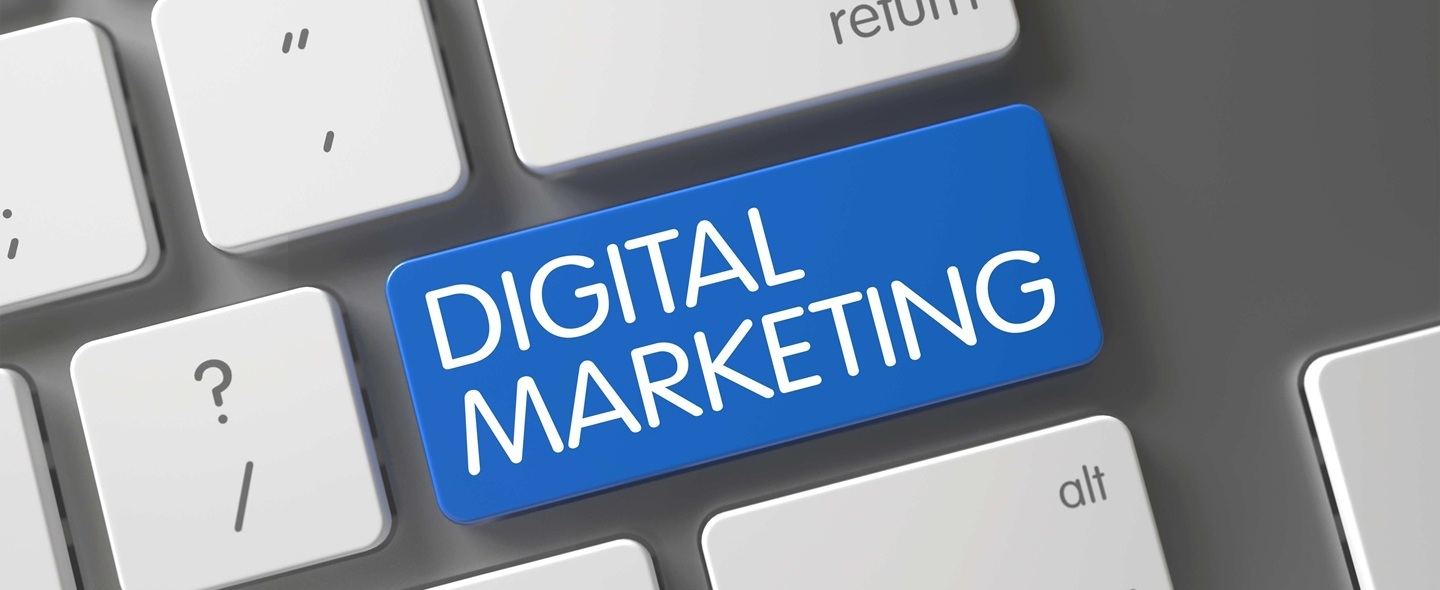
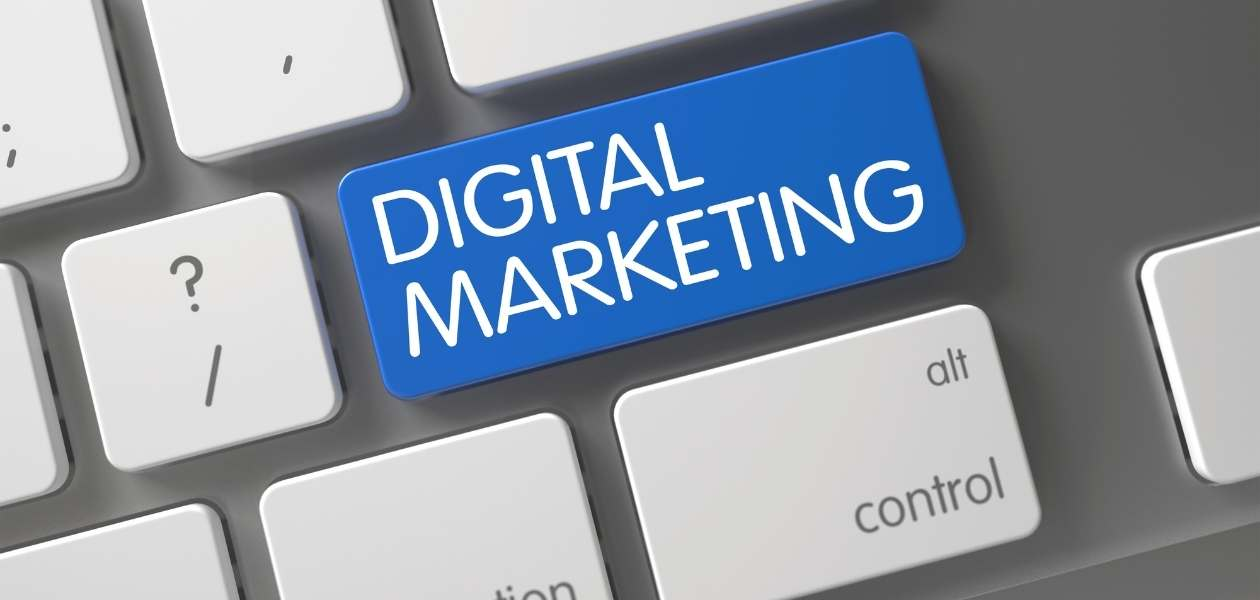
Image optimization

diff --git a/digital-marketing.html b/digital-marketing.html
@@ -30,13 +30,27 @@
           ),
           url(assets/image/services/digital-marketing.jpg);
         width: 1216px;
-        height: 501px;
+        height: auto;
         background-size: cover;
         background-repeat: no-repeat;
         background-position: top;
         color: #fff;
         padding: 20px;
         margin-top: 60px;
+        min-height: 450px;
+      }
+      @media (max-width: 650px) {
+        .top-image {
+          background-image: linear-gradient(
+              to bottom,
+              transparent 80%,
+              rgb(255, 255, 255) 100%
+            ),
+            url(assets/image/services/digital-marketing-mini.jpg);
+          width: 100%;
+          height: auto;
+          min-height: 400px;
+        }
       }
       h1,
       h2 {

diff --git a/index.html b/index.html
@@ -1503,7 +1503,10 @@
         </div>
       </section>
       <section class="py-20 bg-gray-50" id="contact">
-        <div class="max-w-7xl mx-auto px-4 sm:px-6 lg:px-8">
+        <div
+          class="max-w-7xl mx-auto px-4 sm:px-6 lg:px-8"
+          style="padding-bottom: 40px"
+        >
           <div class="text-center">
             <h2
               class="text-base font-semibold text-blue-600 tracking-wide uppercase"
